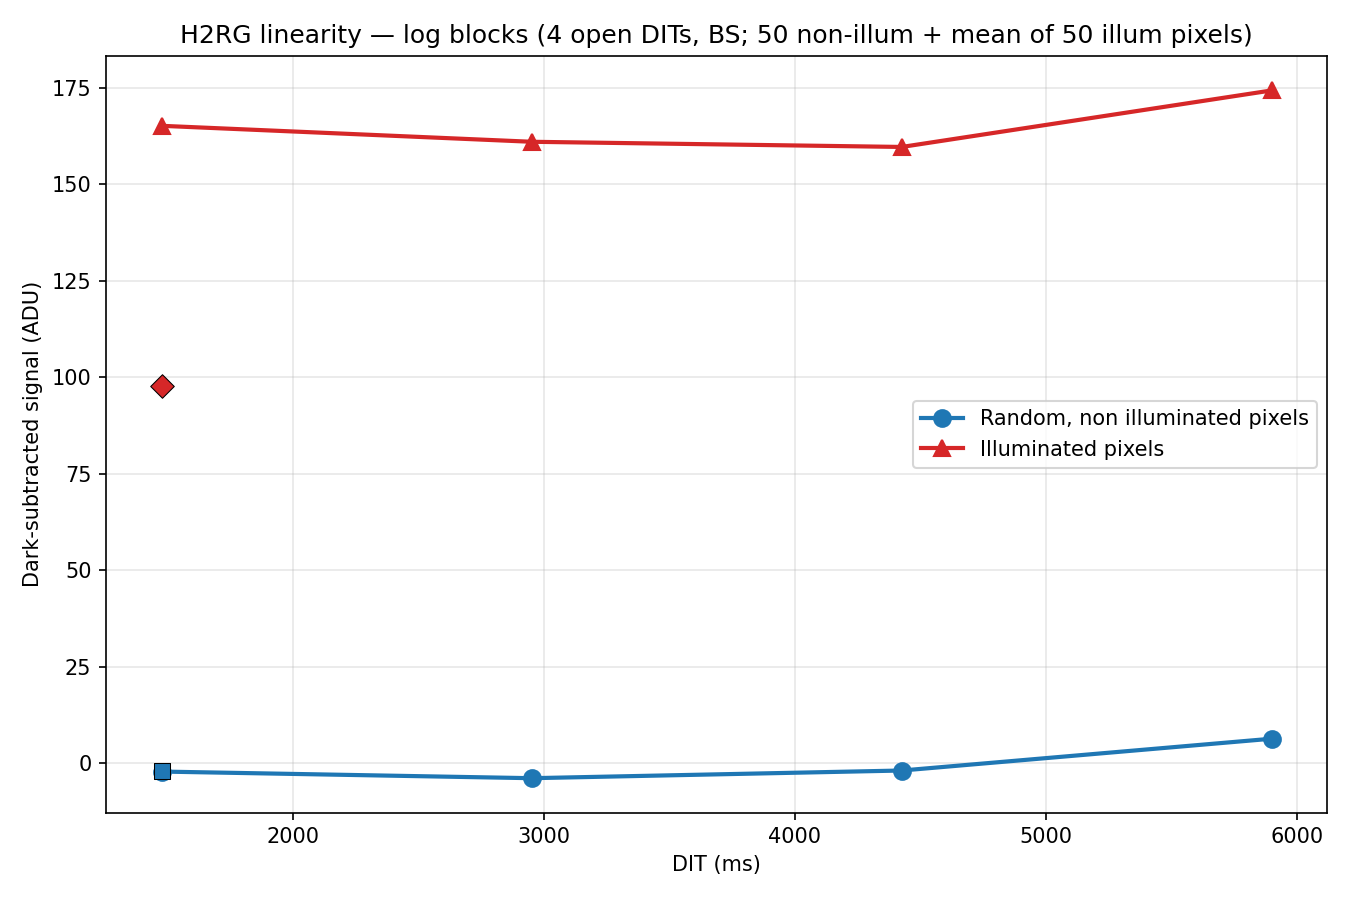
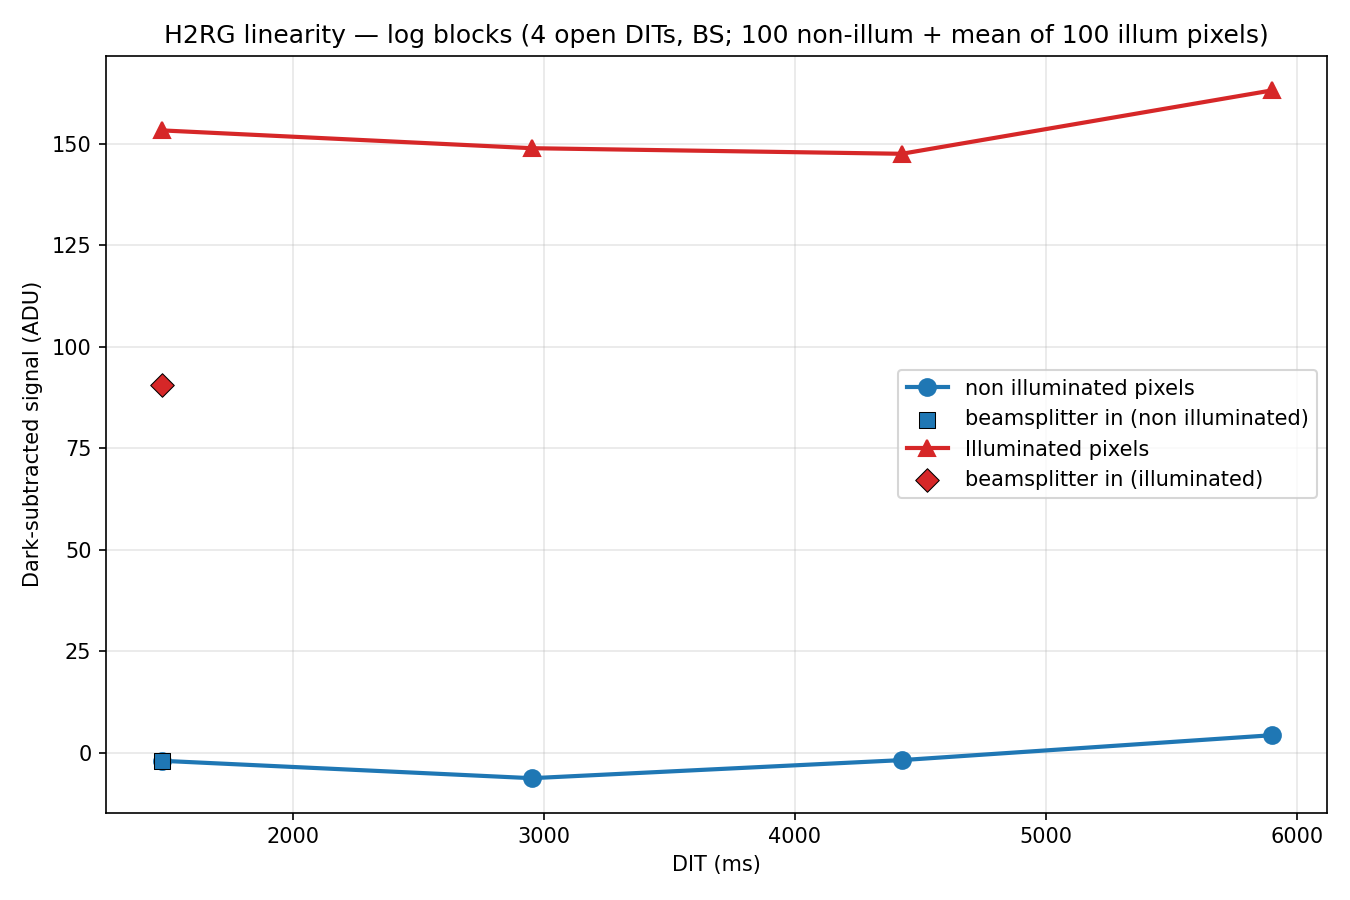
Refine linearity plot legend and use 100-pixel averages.
Include beamsplitter points in the legend and average the same illuminated pixel set for that block.

diff --git a/nottcontrol/script/detector/linearity/analyze_linearity.py b/nottcontrol/script/detector/linearity/analyze_linearity.py
@@ -47,8 +47,8 @@ DEFAULT_BS_END = 350
 DEFAULT_GROUP_SIZE = 10
 DEFAULT_N_CLOSED = 5
 DEFAULT_N_OPEN = 5
-DEFAULT_N_PIXELS = 50
-DEFAULT_N_ILLUM_PIXELS = 50
+DEFAULT_N_PIXELS = 100
+DEFAULT_N_ILLUM_PIXELS = 100
 DEFAULT_ILLUM_SIZE = 20
 # Illuminated spot centre in image coordinates (X=column, Y=row).
 DEFAULT_ILLUM_CENTER_X = 1045
@@ -579,6 +579,7 @@ def plot_mean_series(
     n_sigma: float,
     color: str,
     label: str,
+    bs_label: str | None = None,
     marker: str = "o",
     bs_marker: str = "s",
     log_prefix: str = "Mean",
@@ -613,6 +614,7 @@ def plot_mean_series(
     )
 
     if beamsplitter_blocks:
+        bs_legend = bs_label
         for block in beamsplitter_blocks:
             mean_val, n_kept, n_rej = sigma_clip_mean(
                 pixel_fluxes(block, pixels), n_sigma=n_sigma
@@ -637,7 +639,9 @@ def plot_mean_series(
                 edgecolors="k",
                 linewidths=0.5,
                 zorder=7,
+                label=bs_legend,
             )
+            bs_legend = None
 
 
 def plot_pixel_linearity(
@@ -683,7 +687,8 @@ def plot_pixel_linearity(
         beamsplitter_blocks=beamsplitter_blocks,
         n_sigma=clip_sigma,
         color="C0",
-        label="Random, non illuminated pixels",
+        label="non illuminated pixels",
+        bs_label="beamsplitter in (non illuminated)",
         marker="o",
         bs_marker="s",
         log_prefix="Non-illuminated mean",
@@ -699,6 +704,7 @@ def plot_pixel_linearity(
             n_sigma=clip_sigma,
             color="C3",
             label="Illuminated pixels",
+            bs_label="beamsplitter in (illuminated)",
             marker="^",
             bs_marker="D",
             log_prefix="Illuminated mean",
